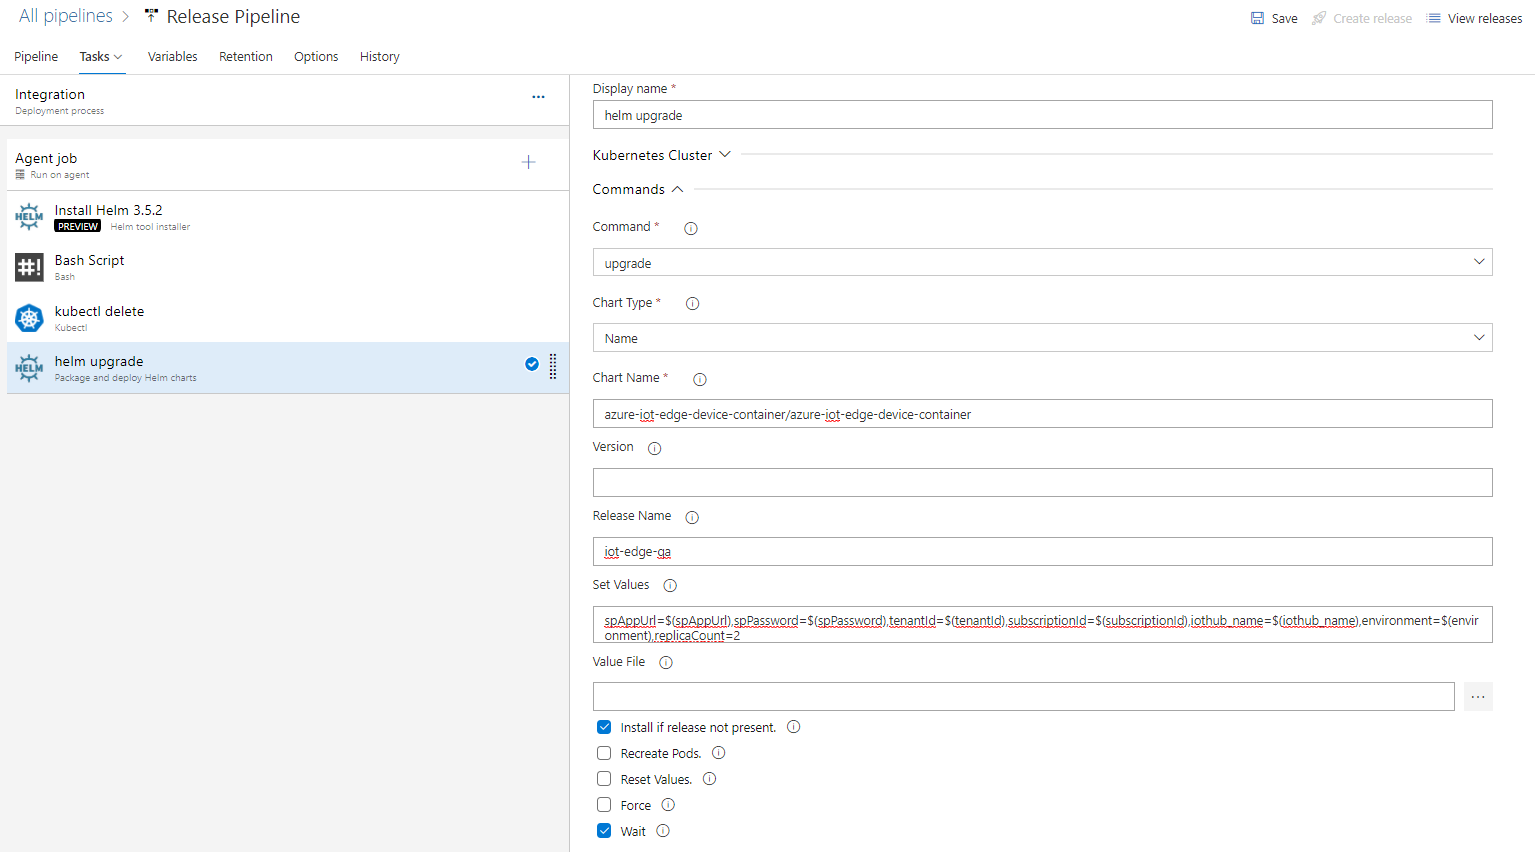
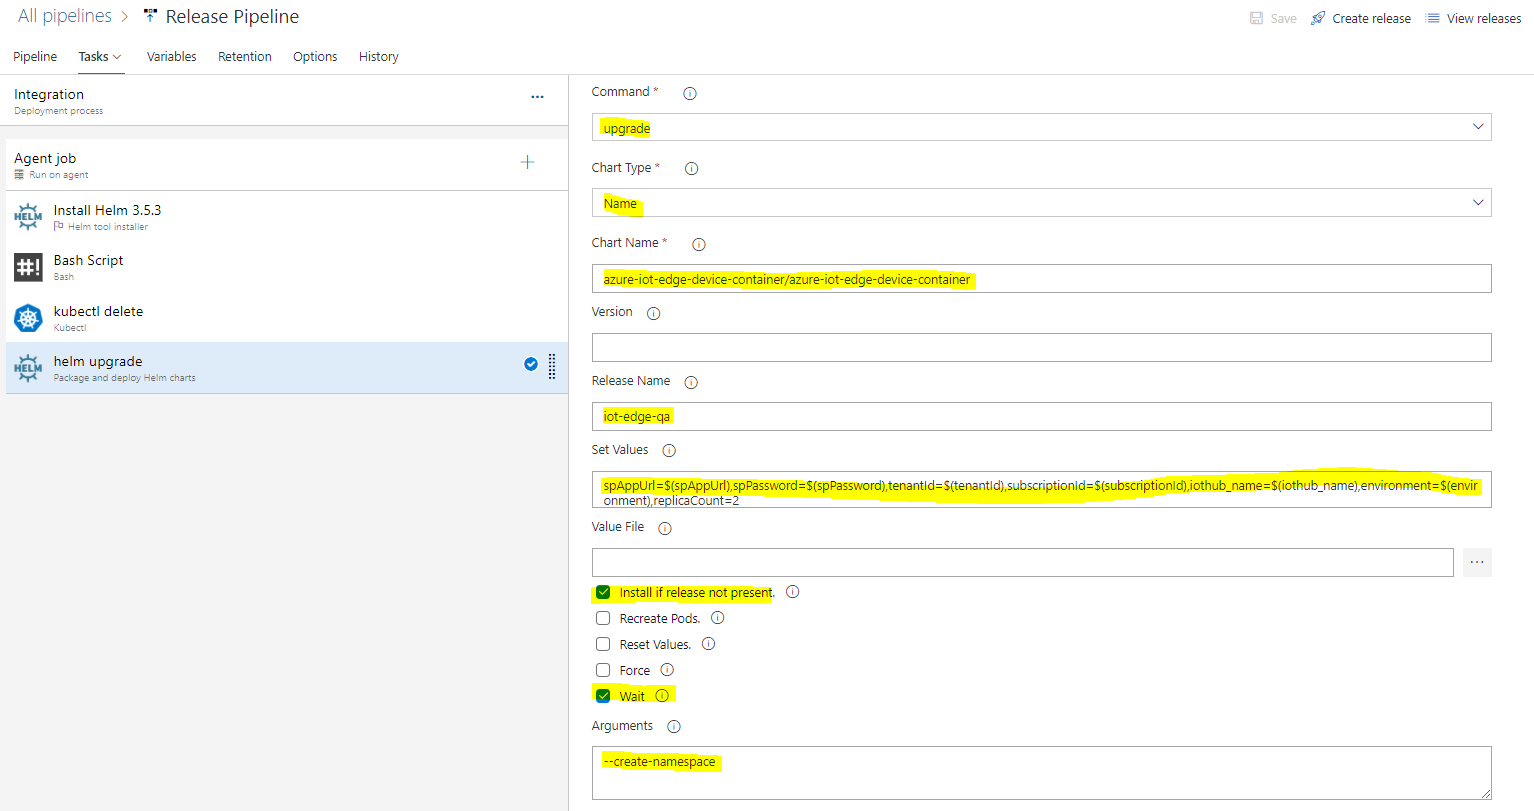
Update Helm Upgrade Step

diff --git a/README.md b/README.md
@@ -275,7 +275,7 @@ Next, we will configure the Helm Upgrade task.  Set the Namespace value to "iot-
 
     spAppUrl=$(spAppUrl),spPassword=$(spPassword),tenantId=$(tenantId),subscriptionId=$(subscriptionId),iothub_name=$(iothub_name),environment=$(environment),replicaCount=2 
 
-and ensure that "Install if release not present", and "Wait" checkboxes are checked as shown below:
+Finally, ensure that "Install if release not present", and "Wait" checkboxes are checked and set Argument to "--create-namepace" as shown below:
 
 ![Configure Helm Upgrade](/content/HelmUpgrade.PNG)
 
